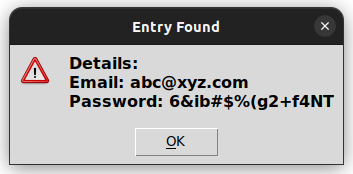
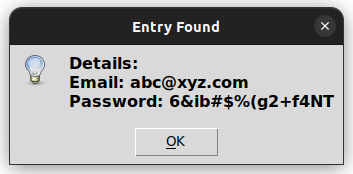
Update

Changed region(s): [[0.0623, 0.3161, 0.1558, 0.4885]]

diff --git a/main.py b/main.py
@@ -152,7 +152,7 @@ def find_password():
                 id = data_entry["Email"]
                 password = data_entry["Password"]
                 entry_message = f"Details:\nEmail: {id}\nPassword: {password}"
-                messagebox.showwarning(title="Entry Found", message=entry_message)
+                messagebox.showinfo(title="Entry Found", message=entry_message)
     return
 
 
